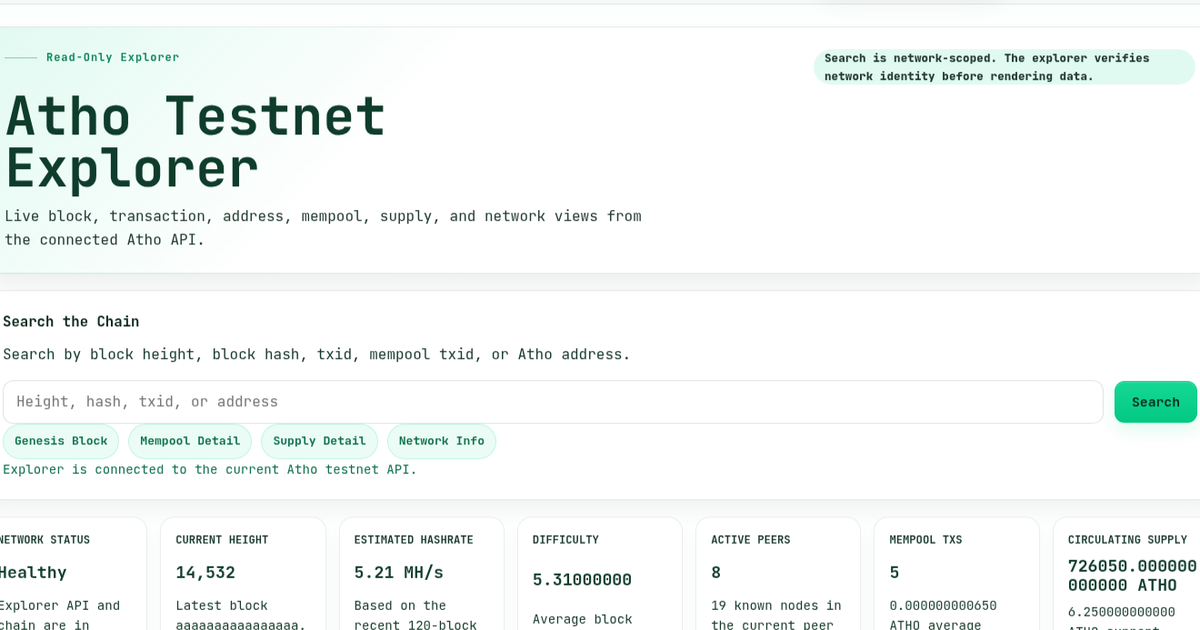
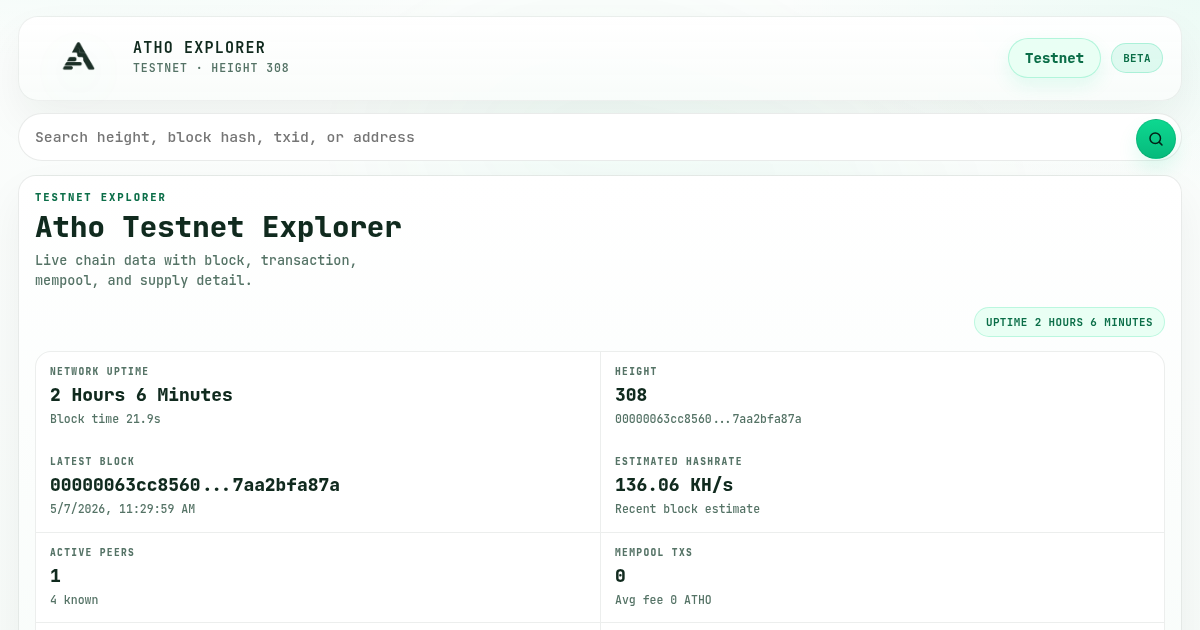
Add page-specific share previews

diff --git a/docs.html b/docs.html
@@ -11,21 +11,22 @@
   <meta property="og:url" content="https://atho.io/docs.html">
   <meta property="og:title" content="Atho Documentation | Post-Quantum Payment Network">
   <meta property="og:description" content="Technical and user documentation for Atho, including wallets, atoms, fees, mining, nodes, testnet, security, and monetary policy.">
-  <meta property="og:image" content="https://atho.io/assets/media/og-share-card.png">
-  <meta property="og:image:secure_url" content="https://atho.io/assets/media/og-share-card.png">
+  <meta property="og:image" content="https://atho.io/assets/media/docs-share-card.png?v=20260507d">
+  <meta property="og:image:secure_url" content="https://atho.io/assets/media/docs-share-card.png?v=20260507d">
   <meta property="og:image:type" content="image/png">
   <meta property="og:image:width" content="1200">
   <meta property="og:image:height" content="630">
-  <meta property="og:image:alt" content="Atho documentation preview.">
+  <meta property="og:image:alt" content="Atho documentation preview with technical docs navigation and protocol reference content.">
   <meta name="twitter:card" content="summary_large_image">
   <meta name="twitter:title" content="Atho Documentation | Post-Quantum Payment Network">
   <meta name="twitter:description" content="Technical and user documentation for Atho, including wallets, atoms, fees, mining, nodes, testnet, security, and monetary policy.">
-  <meta name="twitter:image" content="https://atho.io/assets/media/og-share-card.png">
+  <meta name="twitter:image" content="https://atho.io/assets/media/docs-share-card.png?v=20260507d">
+  <meta name="twitter:image:alt" content="Atho documentation preview with technical docs navigation and protocol reference content.">
   <link rel="icon" type="image/png" href="./assets/media/logo%201.png">
   <link rel="preconnect" href="https://fonts.googleapis.com">
   <link rel="preconnect" href="https://fonts.gstatic.com" crossorigin>
   <link href="https://fonts.googleapis.com/css2?family=JetBrains+Mono:wght@400;500;600;700;800&display=swap" rel="stylesheet">
-  <link rel="stylesheet" href="./assets/css/site.css?v=20260507c">
+  <link rel="stylesheet" href="./assets/css/site.css?v=20260507d">
 </head>
 <body class="docs-page" data-stats-endpoint="">
   <a class="skip-link" href="#main">Skip to content</a>
@@ -81,7 +82,7 @@
     </div>
   </footer>
 
-  <script type="module" src="./assets/js/site.js?v=20260507c"></script>
-  <script type="module" src="./assets/js/docs.js?v=20260507c"></script>
+  <script type="module" src="./assets/js/site.js?v=20260507d"></script>
+  <script type="module" src="./assets/js/docs.js?v=20260507d"></script>
 </body>
 </html>

diff --git a/explore/index.html b/explore/index.html
@@ -11,12 +11,17 @@
   <meta property="og:url" content="https://atho.io/explore">
   <meta property="og:title" content="Atho Testnet Explorer Beta">
   <meta property="og:description" content="View live Atho testnet blocks, transactions, mempool activity, and network stats.">
-  <meta property="og:image" content="https://atho.io/assets/media/explorer-share-card.png">
+  <meta property="og:image" content="https://atho.io/assets/media/explorer-share-card.png?v=20260507d">
+  <meta property="og:image:secure_url" content="https://atho.io/assets/media/explorer-share-card.png?v=20260507d">
+  <meta property="og:image:type" content="image/png">
+  <meta property="og:image:width" content="1200">
+  <meta property="og:image:height" content="630">
   <meta property="og:image:alt" content="Atho testnet explorer preview with live chain metrics and recent block activity.">
   <meta name="twitter:card" content="summary_large_image">
   <meta name="twitter:title" content="Atho Testnet Explorer Beta">
   <meta name="twitter:description" content="View live Atho testnet blocks, transactions, mempool activity, and network stats.">
-  <meta name="twitter:image" content="https://atho.io/assets/media/explorer-share-card.png">
+  <meta name="twitter:image" content="https://atho.io/assets/media/explorer-share-card.png?v=20260507d">
+  <meta name="twitter:image:alt" content="Atho testnet explorer preview with live chain metrics and recent block activity.">
   <link rel="icon" type="image/png" href="../assets/media/logo%201.png">
   <link rel="preconnect" href="https://fonts.googleapis.com">
   <link rel="preconnect" href="https://fonts.gstatic.com" crossorigin>
@@ -140,7 +145,7 @@
     }
 
     .brand-logo {
-      width: 58px;
+      width: 82px;
       height: auto;
       border: 0;
       background: transparent;
@@ -1320,7 +1325,7 @@
       }
 
       .brand-logo {
-        width: 54px;
+        width: 82px;
       }
 
       .brand-title {
@@ -1424,6 +1429,6 @@
       testnetApiBaseUrl: "https://testnet-node1.atho.io/api/v1"
     };
   </script>
-  <script type="module" src="../assets/js/explore.js?v=20260507c"></script>
+  <script type="module" src="../assets/js/explore.js?v=20260507d"></script>
 </body>
 </html>

diff --git a/index.html b/index.html
@@ -26,7 +26,7 @@
   <link rel="preconnect" href="https://fonts.googleapis.com">
   <link rel="preconnect" href="https://fonts.gstatic.com" crossorigin>
   <link href="https://fonts.googleapis.com/css2?family=JetBrains+Mono:wght@400;500;600;700;800&display=swap" rel="stylesheet">
-  <link rel="stylesheet" href="./assets/css/site.css?v=20260507c">
+  <link rel="stylesheet" href="./assets/css/site.css?v=20260507d">
 </head>
 <body data-stats-endpoint="">
   <a class="skip-link" href="#main">Skip to content</a>
@@ -246,7 +246,7 @@
       testnetApiBaseUrl: "https://testnet-node1.atho.io/api/v1"
     };
   </script>
-  <script type="module" src="./assets/js/site.js?v=20260507c"></script>
-  <script type="module" src="./assets/js/live-network.js?v=20260507c"></script>
+  <script type="module" src="./assets/js/site.js?v=20260507d"></script>
+  <script type="module" src="./assets/js/live-network.js?v=20260507d"></script>
 </body>
 </html>